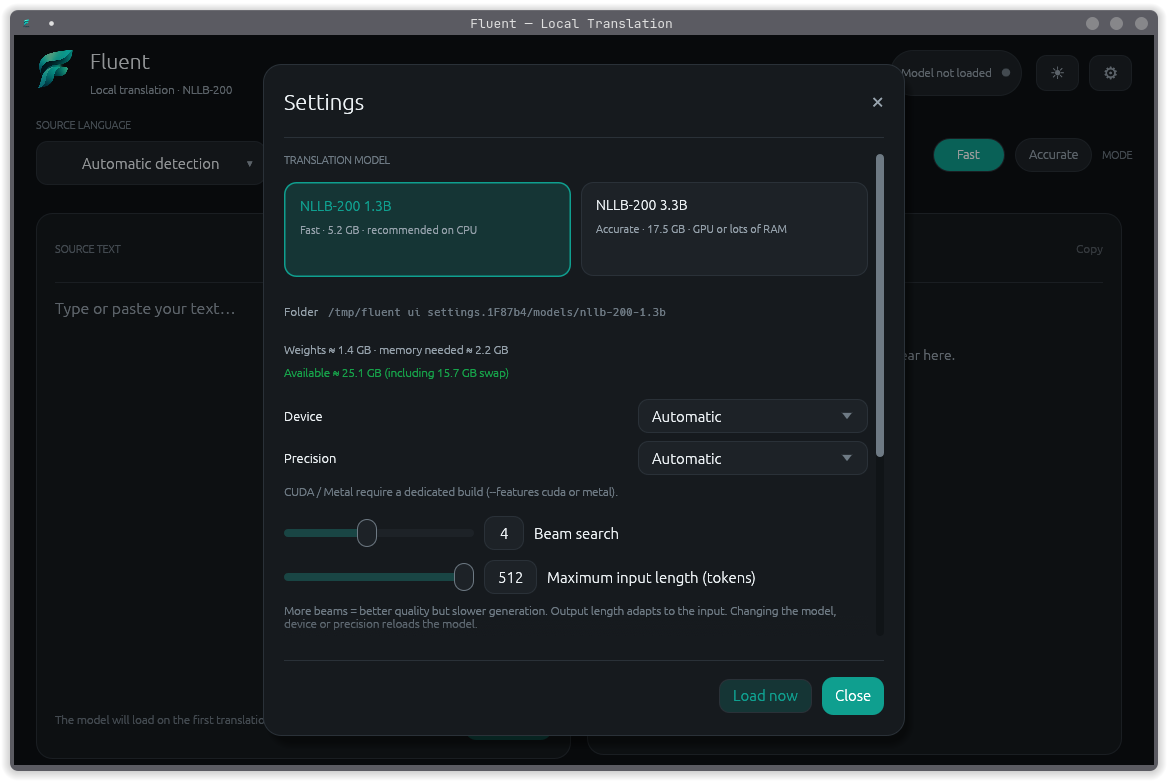
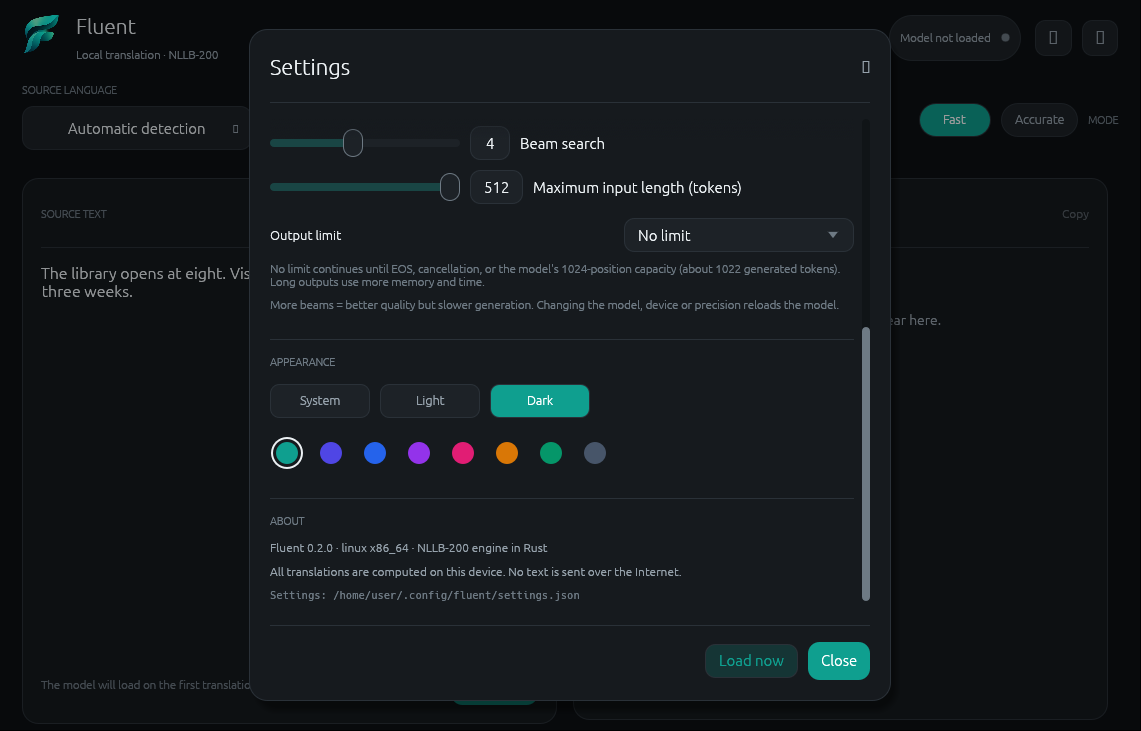
docs: explain output limits and refresh settings screenshots
Documents Automatic, Custom limit and No limit, including that No limit stops
at EOS/cancellation/model capacity rather than infinite hardware capacity.
Captures the real Settings page in dark and light themes inside a disposable
container with the output control visible.

diff --git a/README.md b/README.md
@@ -244,7 +244,8 @@ Example:
   },
   "generation": {
     "max_length": 512,
-    "num_beams": 4
+    "num_beams": 4,
+    "unlimited_output": false
   }
 }
 ```
@@ -252,7 +253,15 @@ Example:
 The application searches `FLUENT_CONFIG`, the executable directory and its
 parent, the platform configuration directory, then the current directory.
 
-`max_length` is the maximum number of **source** tokens; longer input is truncated explicitly and flagged in the interface. The number of **generated** tokens is derived from the encoded input (`min(512, source_tokens * 2 + 16)`) so short sentences finish quickly. An optional `"max_new_tokens"` entry overrides that automatic budget.
+`max_length` is the maximum number of **source** tokens; longer input is truncated explicitly and flagged in the interface.
+
+Generated output is controlled by the **Output limit** setting in Settings or by `config.json`:
+
+- **Automatic** (default): derives a finite budget from the input (`min(512, source_tokens * 2 + 16)`) so short sentences finish quickly. This preserves the previous behavior.
+- **Custom limit**: uses `"max_new_tokens": N` as a finite ceiling, even if the model has not emitted EOS.
+- **No limit**: set `"unlimited_output": true`. Fluent imposes no token ceiling and generates until EOS, cancellation, an inference error, or the model's positional capacity. For NLLB's 1024-position table this is about 1022 generated tokens after the two prompt tokens. Long outputs require more memory and time; it is not infinite hardware capacity.
+
+Existing configuration files without these fields remain on **Automatic**. The GUI persists the selected mode in `settings.json`.
 
 ## 🚀 GPU Acceleration
 

diff --git a/docs/ASSETS.md b/docs/ASSETS.md
@@ -115,12 +115,13 @@ Captured from the actual running application on the canonical Linux host:
 | View | Path |
 |---|---|
 | Main interface, dark theme | `src/image1.png` |
-| Settings page | `docs/screenshots/settings.png` |
+| Settings page, dark theme, output limit | `docs/screenshots/settings.png` |
+| Settings page, light theme | `docs/screenshots/settings-light.png` |
 | Language picker | `docs/screenshots/language-picker.png` |
 | Main interface, light theme | `docs/screenshots/main-light.png` |
 
-The settings screenshot uses a disposable home directory so no user paths or
-private text are exposed. The main preview was captured with neutral sample
+The settings screenshots use a disposable container home directory so no user
+paths or private text are exposed; they show the newest Output limit control. The main preview was captured with neutral sample
 text. These are documentation captures, not mockups.
 
 ## 6. Platform output requirements

diff --git a/CHANGELOG.md b/CHANGELOG.md
@@ -17,6 +17,11 @@ versions until a release is explicitly published.
 - Committed production Minisign public key (`B504F2189BB21013`); private key
   stays outside the repository and is not yet configured as a CI secret.
 - Non-interactive `--version`, `--self-test` and `--smoke-test-gui` modes.
+- Output-length selector with Automatic, Custom limit, and No limit modes.
+  No limit generates until EOS, cancellation, or the model's positional
+  capacity; the CPU KV cache grows geometrically for long generations.
+- Real-model test generated 600 tokens (beyond the previous 512 ceiling) and
+  verified cancellation after 520 tokens in unlimited mode.
 - Cross-platform archive/manifest/signature verifier
   (`scripts/verify-artifacts.py`) that checks actual bytes, executable formats,
   architectures, checksums and detached signatures.

diff --git a/docs/MODEL_PACKAGE.md b/docs/MODEL_PACKAGE.md
@@ -54,7 +54,7 @@ Optional fields and defaults:
 
 | Field | Default | Notes |
 |---|---|---|
-| `max_position_embeddings` | 1024 | Source limit is also bounded by the Fluent `max_length` setting (≤ 1024) |
+| `max_position_embeddings` | 1024 | Bounds source positions and generated output; `No limit` stops here if EOS never arrives |
 | `pad_token_id` | 1 | Used for position-table construction |
 | `eos_token_id` | 2 | Must match the tokenizer’s `</s>` for generation |
 | `decoder_start_token_id` | 2 | Read for compatibility; the engine follows the NLLB prefix convention |
